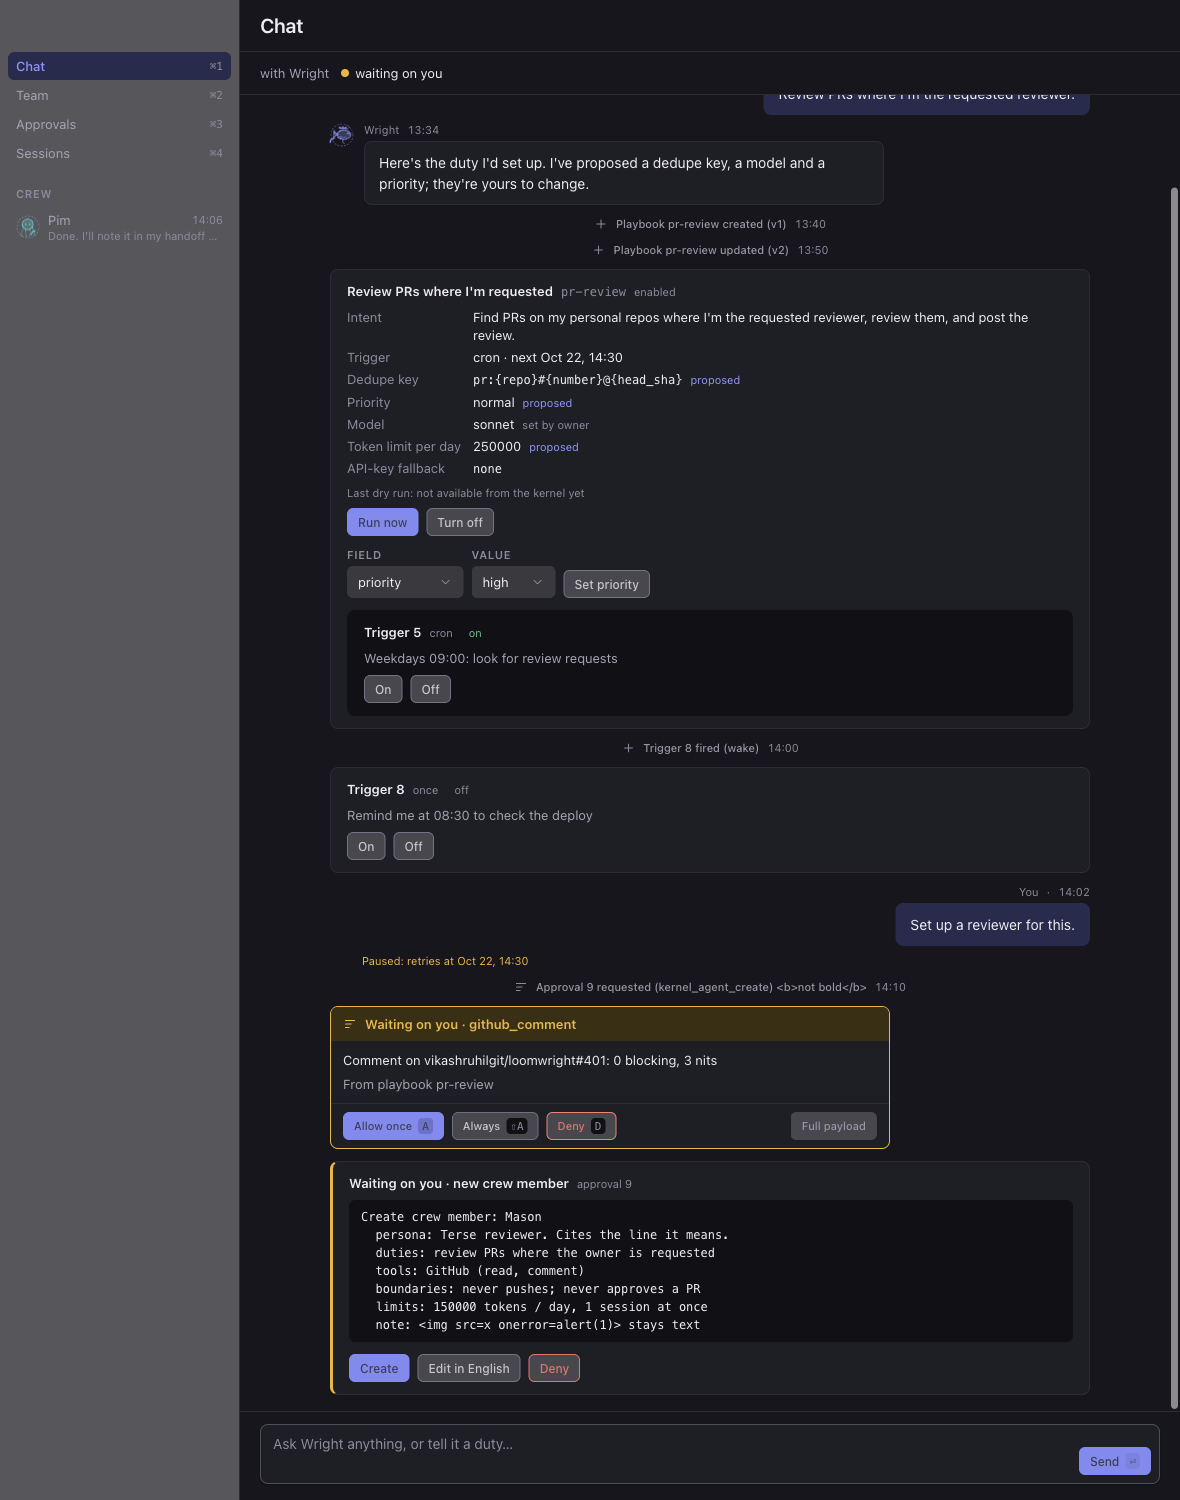
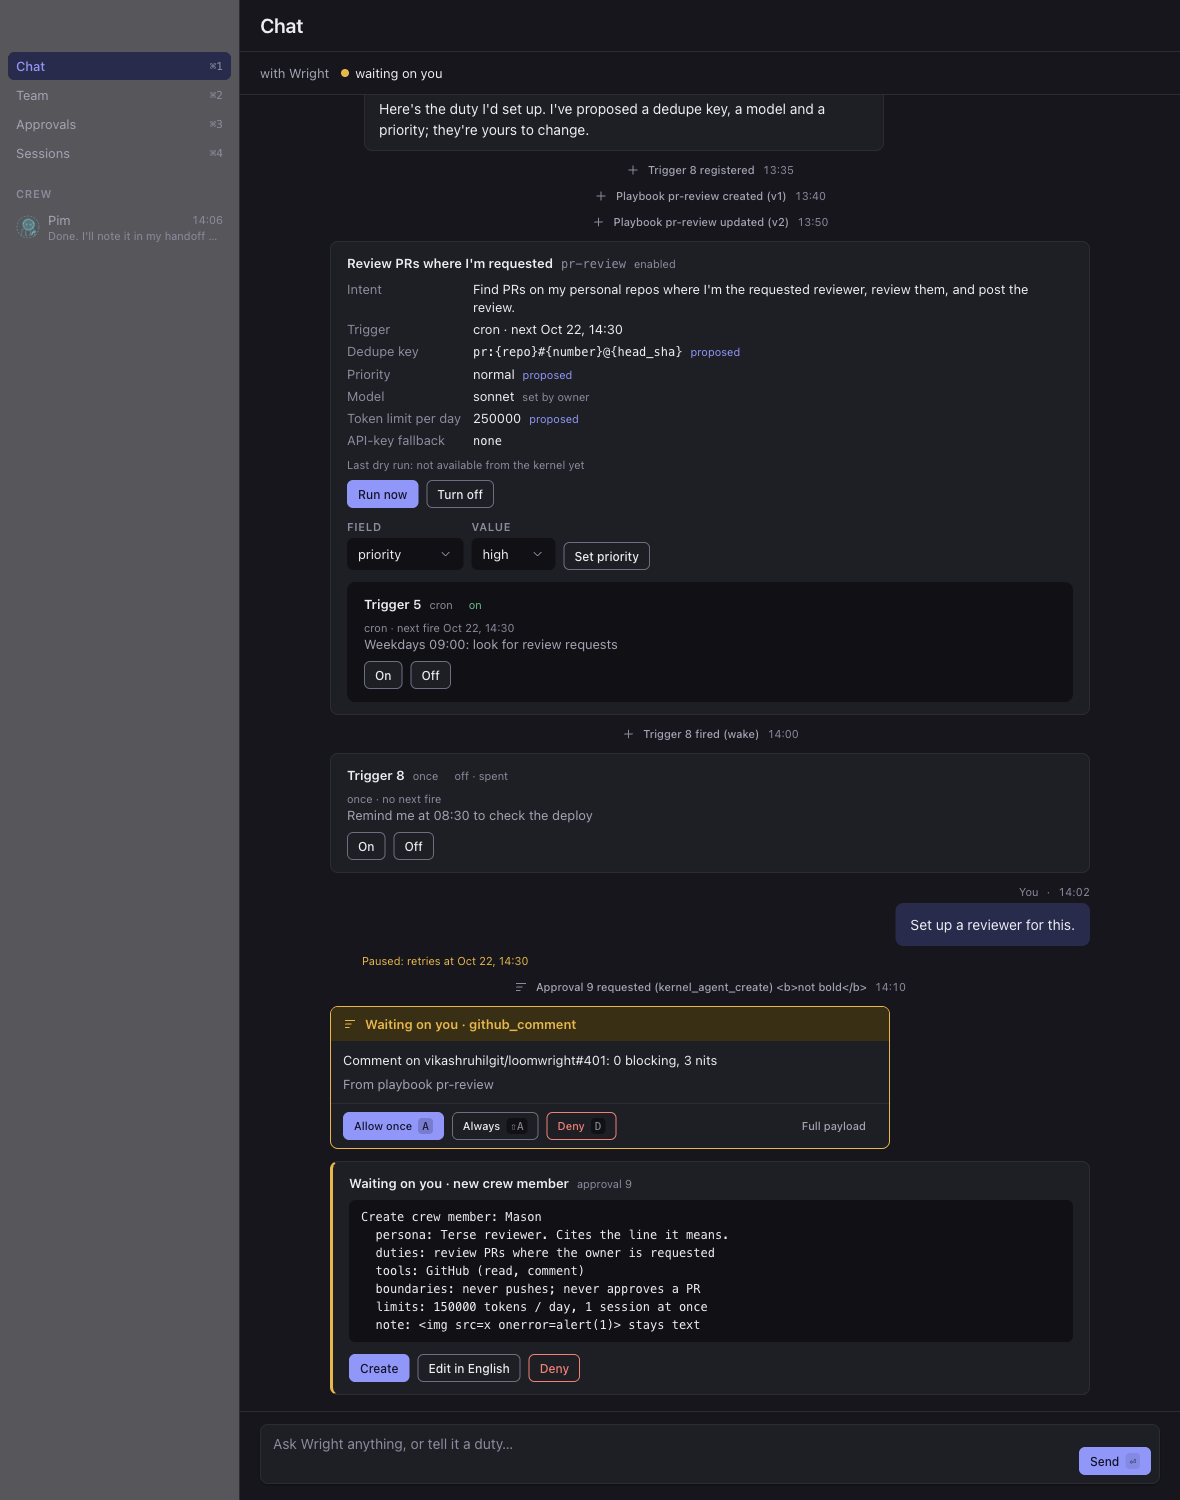
fix: address review feedback (iteration 1)

diff --git a/docs/evidence/phase-5-polish/chat/README.md b/docs/evidence/phase-5-polish/chat/README.md
@@ -10,7 +10,7 @@ Screenshots of every designed Chat state, in light and dark, taken from the buil
 | Loading: the thread read has not answered | `chat-loading-light.png` | `chat-loading-dark.png` | `renderChat`, `S.force.loading` branch (three skeleton rows) |
 | Error: the kernel-unreachable band above the screen's error state | `chat-error-light.png` | `chat-error-dark.png` | `bands('chat')` plus `renderChat` with the thread unavailable |
 | Waiting on you: a pending approval inline at the end | `chat-waiting-light.png` | `chat-waiting-dark.png` | `renderChat`, `inlineApprovals(a)` |
-| Populated: messages, event lines, a playbook card (with its trigger), a fired trigger's card, a parked row, an approval and a charter card | `chat-populated-light.png` | `chat-populated-dark.png` | `renderChat` thread with `turnHTML` (`t.ev` lines, `t.draft` and `t.charter` cards) and `inlineApprovals(a)` |
+| Populated: messages, event lines, a playbook card (with its trigger), a trigger's `registered` and `fired` lines with its card (schedule, next fire, `off · spent`) under the newer one, a parked row, an approval and a charter card | `chat-populated-light.png` | `chat-populated-dark.png` | `renderChat` thread with `turnHTML` (`t.ev` lines, `t.draft` and `t.charter` cards) and `inlineApprovals(a)` |
 | Crew thread: Pim's thread, with a quoted delegation from Wright, the workspace picker, and Pim selected under Crew | `chat-crew-thread-light.png` | `chat-crew-thread-dark.png` | `renderChat` with `S.chatWith` a specialist, and `#crewnav` with that row `sel` |
 
 ## How to regenerate

diff --git a/docs/architecture/app.md b/docs/architecture/app.md
@@ -19,7 +19,7 @@ Built by item 12 in `app/src/store/` (`store.ts`, `resources.ts`, `react.ts`, `c
 
 ### Resources
 
-A resource is one contract `GET` (`FIXED_RESOURCES` in `resources.ts`): `status` (`GET /status`), `approvals`, `grants` (`GET /approvals/grants`), `agents`, `messages` (`GET /messages?all=1`), `sessions`, `playbooks`, `triggers` and `notifications`, plus one `thread:<agent>` per agent (the first page of `GET /threads/:agent`; paging backwards is item 13's). `status` loads when the store starts, every other resource on its first use (`load`), and from then on the feed keeps it current.
+A resource is one contract `GET` (`FIXED_RESOURCES` in `resources.ts`): `status` (`GET /status`), `approvals`, `grants` (`GET /approvals/grants`), `agents`, `messages` (`GET /messages?all=1`), `sessions`, `playbooks`, `triggers` (`GET /triggers?all=1`) and `notifications`, plus one `thread:<agent>` per agent (the first page of `GET /threads/:agent`; paging backwards is item 13's). `status` loads when the store starts, every other resource on its first use (`load`), and from then on the feed keeps it current.
 
 ### Following the feed
 
